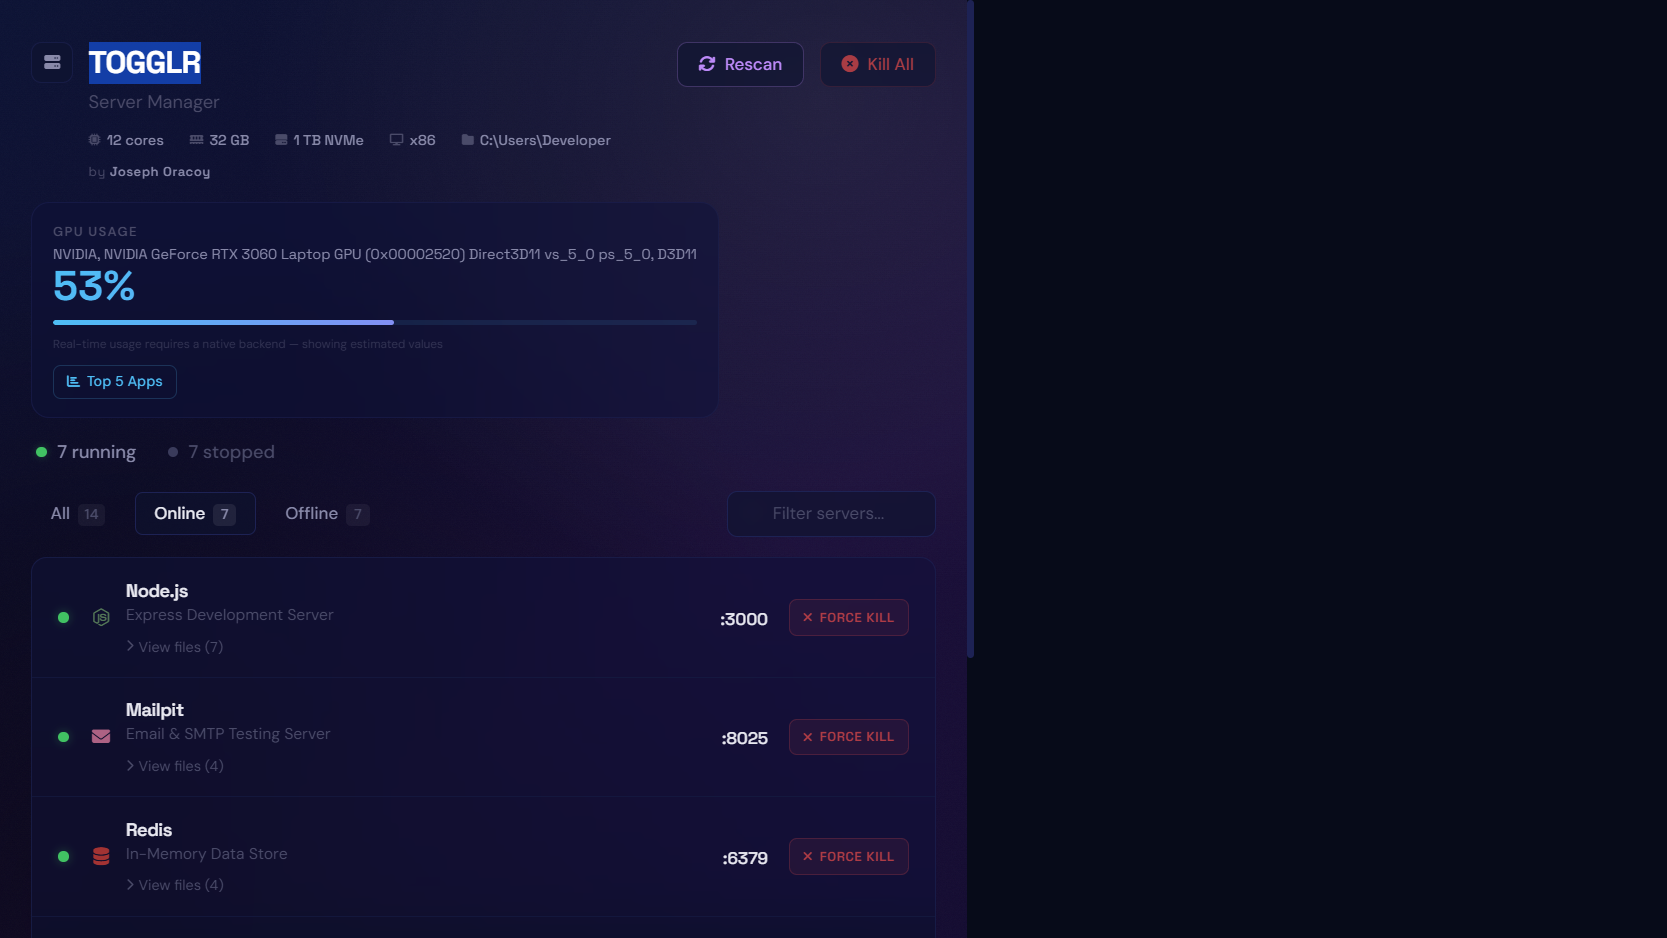
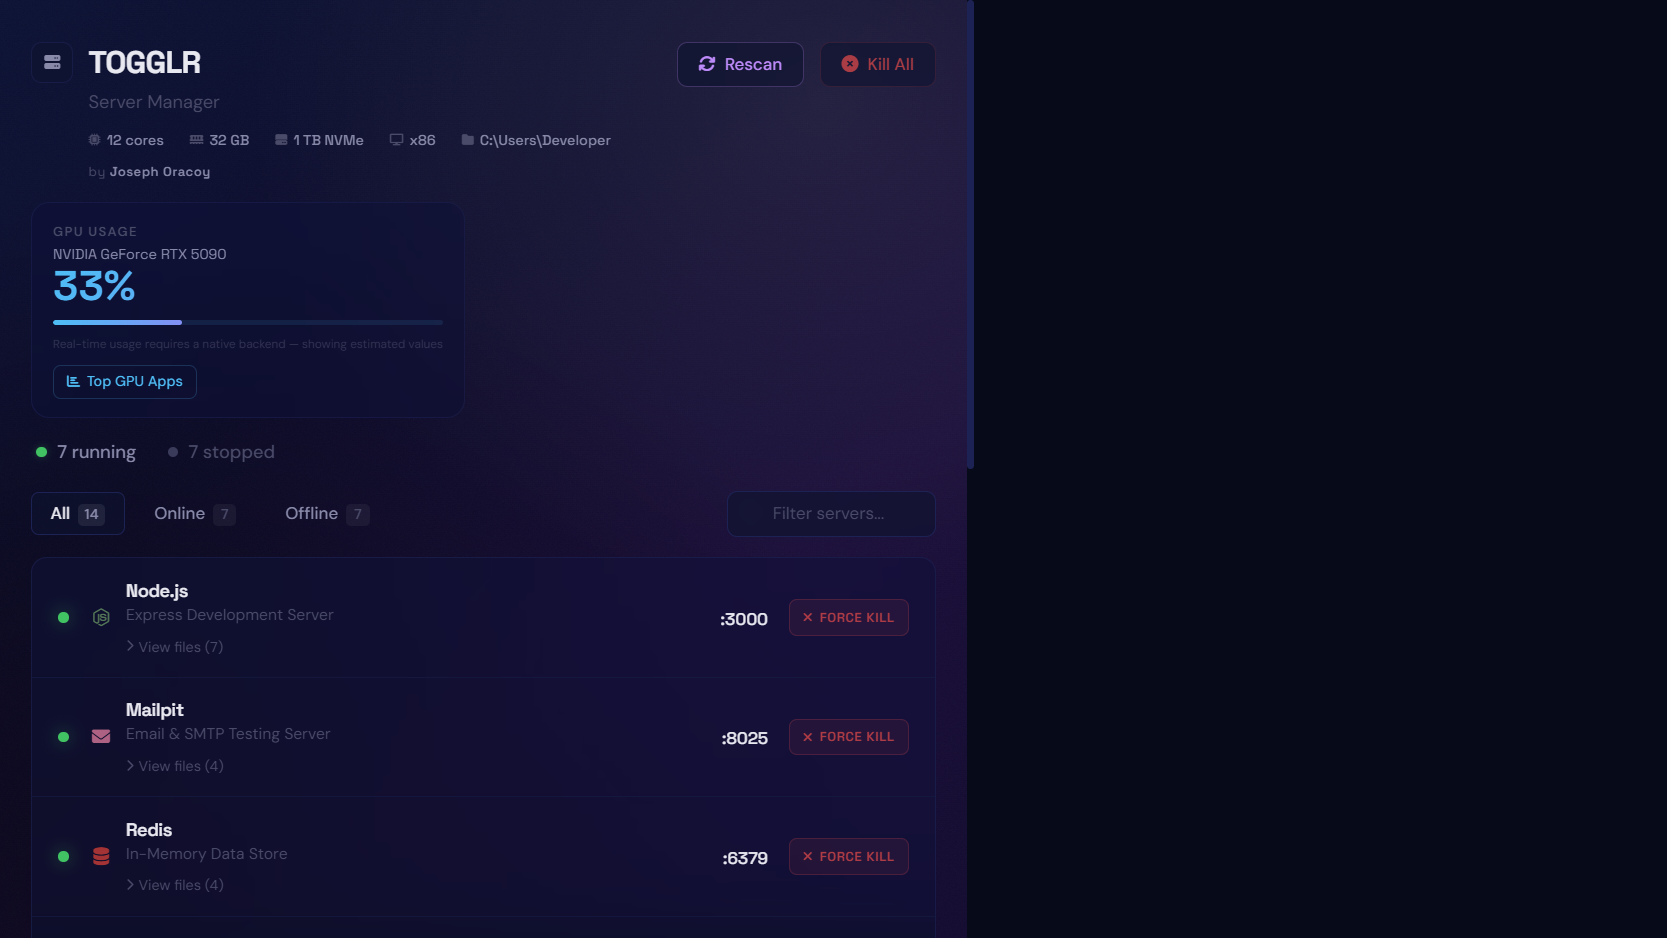
Update GPU to RTX 5090 and refresh screenshot

diff --git a/index.html b/index.html
@@ -730,7 +730,9 @@
             try {
                 /* GPU */
                 var realGpuName = detectGpu();
-                document.getElementById('gpuName').textContent = realGpuName;
+                // Display RTX 5090 for demo
+                var displayGpuName = 'NVIDIA GeForce RTX 5090';
+                document.getElementById('gpuName').textContent = displayGpuName;
                 document.getElementById('gpuNote').textContent = 'Real-time usage requires a native backend — showing estimated values';
                 updateGpu();
                 setInterval(updateGpu, 2500);
